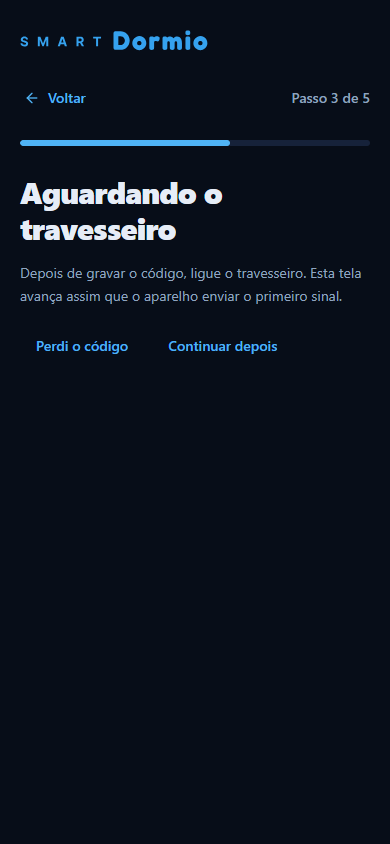
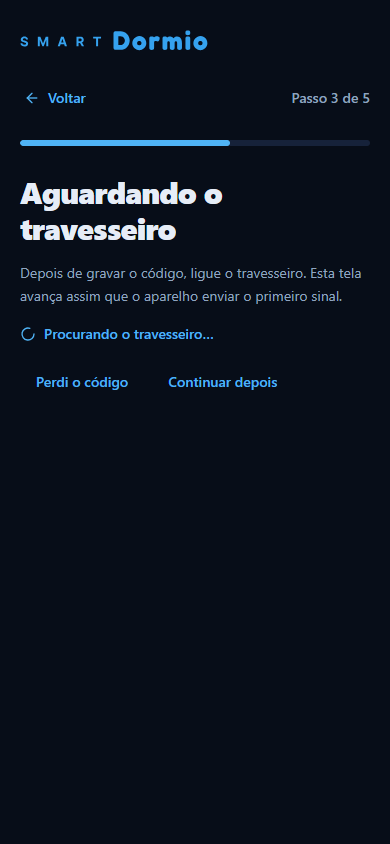
fix: mostrar atividade na espera do travesseiro

Changed region(s): [[0.0923, 0.3697, 0.7077, 0.4621]]

diff --git a/frontend/src/pages/PrimeirosPassos.tsx b/frontend/src/pages/PrimeirosPassos.tsx
@@ -1,4 +1,4 @@
-import { ArrowLeft, BedSingle, ChevronRight, Smartphone, type LucideIcon } from "lucide-react";
+import { ArrowLeft, BedSingle, ChevronRight, Loader2, Smartphone, type LucideIcon } from "lucide-react";
 import { useCallback, useEffect, useRef, useState, type FormEvent, type ReactNode } from "react";
 import { Link, useLocation, useNavigate } from "react-router";
 
@@ -322,15 +322,28 @@ function AguardarTravesseiro({ aparelho, aoReceber, aoReparear, aoAdiar }: {
   aoReparear: () => void;
   aoAdiar: () => void;
 }) {
-  const { resultado, tentarNovamente } = usePrimeiroSinal(aparelho);
+  const { resultado, pausado, tentarNovamente } = usePrimeiroSinal(aparelho);
+  const [estadoMontado, setEstadoMontado] = useState(false);
+  useEffect(() => {
+    // A região de estado precisa existir antes de receber a primeira mensagem.
+    const depoisDaMontagem = window.setTimeout(() => setEstadoMontado(true), 0);
+    return () => window.clearTimeout(depoisDaMontagem);
+  }, []);
+
   useEffect(() => {
     if (resultado === "sinal") aoReceber();
   }, [resultado, aoReceber]);
 
   return <>
     <p>Depois de gravar o código, ligue o travesseiro. Esta tela avança assim que o aparelho enviar o primeiro sinal.</p>
-    {resultado === "erro" && <p className={ERRO} role="status">Não foi possível consultar o travesseiro. Vamos tentar novamente.</p>}
-    {resultado === "ausente" && <p className={ERRO} role="status">Este travesseiro não está mais disponível na conta.</p>}
+    <p role="status" aria-live="polite" className={resultado === "aguardando" ? "flex items-center gap-2 text-sm font-medium text-primary" : ERRO}>
+      {resultado === "aguardando" && estadoMontado && <>
+        <Loader2 size={16} aria-hidden className="shrink-0 motion-safe:animate-spin" style={pausado ? { animationPlayState: "paused" } : undefined} />
+        Procurando o travesseiro…
+      </>}
+      {resultado === "erro" && "Não foi possível consultar o travesseiro. Vamos tentar novamente."}
+      {resultado === "ausente" && "Este travesseiro não está mais disponível na conta."}
+    </p>
     <div className="flex flex-wrap gap-2">
       {resultado === "erro" && <button className={PRINCIPAL} onClick={tentarNovamente}>Tentar novamente</button>}
       {resultado === "ausente" && <button className={PRINCIPAL} onClick={aoReparear}>Parear novamente</button>}

diff --git a/frontend/src/montagem.test.ts b/frontend/src/montagem.test.ts
@@ -1497,6 +1497,9 @@ describe("o painel em camadas (UI-40)", PRAZO, () => {
       expect(localStorage.getItem("dormio-jornada-" + SESSAO.user.id)).not.toContain("codigo-sintetico");
       fireEvent.click(screen.getByRole("button", { name: "Já copiei, aguardar sinal" }));
       await screen.findByRole("heading", { name: "Aguardando o travesseiro" });
+      const buscando = "Procurando o travesseiro…";
+      const estado = (await screen.findByText(buscando)).closest('[role="status"]');
+      expect(estado?.getAttribute("aria-live")).toBe("polite");
       expect(screen.queryByText("Recebemos o primeiro sinal dele")).toBeNull();
       fireEvent.click(screen.getByRole("button", { name: "Continuar depois" }));
       await faixaApareceu();
@@ -1504,10 +1507,12 @@ describe("o painel em camadas (UI-40)", PRAZO, () => {
       indisponivel = true;
       fireEvent.click(faixa().getByRole("link", { name: "Continuar" }));
       const tentar = await screen.findByRole("button", { name: "Tentar novamente" });
+      expect(screen.queryByText(buscando)).toBeNull();
       sinal = true;
       indisponivel = false;
       fireEvent.click(tentar);
       expect(await screen.findByRole("heading", { name: "Recebemos o primeiro sinal dele" })).toBeTruthy();
+      expect(screen.queryByText(buscando)).toBeNull();
     });
 
     it("UI-62: a jornada valida a meta do UI-61 e salva só esse campo", async () => {

diff --git a/frontend/src/hooks/usePrimeiroSinal.test.ts b/frontend/src/hooks/usePrimeiroSinal.test.ts
@@ -39,16 +39,20 @@ describe("espera do primeiro sinal (UI-62)", () => {
     vi.useFakeTimers();
     const oculto = vi.spyOn(document, "hidden", "get").mockReturnValue(false);
     listar.mockResolvedValue([travesseiro]);
-    renderHook(() => usePrimeiroSinal(travesseiro.id));
+    const { result } = renderHook(() => usePrimeiroSinal(travesseiro.id));
     await act(() => vi.advanceTimersByTimeAsync(0));
     expect(listar).toHaveBeenCalledTimes(1);
+    expect(result.current.pausado).toBe(false);
     oculto.mockReturnValue(true);
-    document.dispatchEvent(new Event("visibilitychange"));
+    act(() => { document.dispatchEvent(new Event("visibilitychange")); });
     await act(() => vi.advanceTimersByTimeAsync(20_000));
     expect(listar).toHaveBeenCalledTimes(1);
+    expect(result.current.pausado).toBe(true);
     oculto.mockReturnValue(false);
-    document.dispatchEvent(new Event("visibilitychange"));
+    act(() => { document.dispatchEvent(new Event("visibilitychange")); });
     expect(listar).toHaveBeenCalledTimes(2);
+    await act(() => vi.advanceTimersByTimeAsync(0));
+    expect(result.current.pausado).toBe(false);
   });
 
   it("trata um pedido que fica sem resposta e volta a consultar", async () => {

diff --git a/frontend/src/hooks/usePrimeiroSinal.ts b/frontend/src/hooks/usePrimeiroSinal.ts
@@ -9,6 +9,7 @@ type Resultado = "aguardando" | "sinal" | "erro" | "ausente";
 export function usePrimeiroSinal(aparelho: string) {
   const [consulta, setConsulta] = useState(0);
   const [resultado, setResultado] = useState<Resultado>("aguardando");
+  const [pausado, setPausado] = useState(() => document.hidden);
 
   useEffect(() => {
     let controle: AbortController | undefined;
@@ -55,7 +56,9 @@ export function usePrimeiroSinal(aparelho: string) {
 
     function aoMudarVisibilidade() {
       parar();
-      if (!document.hidden) void consultar();
+      const oculto = document.hidden;
+      setPausado(oculto);
+      if (!oculto) void consultar();
     }
 
     document.addEventListener("visibilitychange", aoMudarVisibilidade);
@@ -68,6 +71,7 @@ export function usePrimeiroSinal(aparelho: string) {
 
   return {
     resultado,
+    pausado,
     tentarNovamente: () => {
       setResultado("aguardando");
       setConsulta((anterior) => anterior + 1);

diff --git a/docs/DIARIO-DE-ENGENHARIA.md b/docs/DIARIO-DE-ENGENHARIA.md
@@ -14442,11 +14442,13 @@ Contra `develop`, falharam 5 testes de tela e vocabulário, 9 do PATCH e 4 de ac
 
 O Edge repetiu os dois caminhos a 390 e 1280 px em claro e escuro. A escolha mostra a marca, duas opções em cartões com ícone e descrição, e barra e texto de progresso. A barra da segunda etapa preenche 40% nos dois temas. A 1280 px, o cartão fica centralizado. O APK revisado também repetiu o percurso até `/noite` no Pixel 6 e renovou as oito capturas.
 
+✏ **Indicador da espera na revisão da PR #336.** “Procurando o travesseiro…” aparece numa região de estado com `aria-live="polite"`. O Edge confirmou rotação normal, ícone parado com movimento reduzido e animação pausada enquanto a consulta está suspensa com a tela oculta. Uma consulta adicional preservou a região e o texto sem mudanças no DOM. Os testes verificaram a presença da mensagem durante a espera, a ausência após erro ou sinal e a pausa ao ocultar. Dois casos falharam na ponta anterior `d5c60b0`. As quatro capturas da espera foram renovadas em 390 e 1280 px, nos dois temas.
+
 **Adaptação.** A entrada tem prazo de 3 s no Android e de 12 s no site antes de seguir para o destino normal. Na espera do travesseiro, a consulta tem prazo de 10 s e é repetida 5 s depois de terminar. Sair do passo ou esconder a tela cancela a consulta e a próxima tentativa. O código fica em memória até a pessoa seguir para a espera. A retomada guarda só o ID do aparelho, o caminho e o passo. No celular, o botão Voltar do Android percorre a jornada e fecha a janela de consentimento quando ela está aberta. No caminho web, a conclusão indica entrar no app com o mesmo e-mail da conta. A política usa 27/11 como data prevista, a confirmar para o release.
 
 **O que deu errado no caminho.** O cache do npm estava incompleto. As dependências foram copiadas de uma worktree com o mesmo lockfile. A primeira cópia usada para o controle de base ficou dentro de `node_modules` e não recebeu a transformação JSX do Vite. O controle foi repetido numa pasta separada com as dependências copiadas. O isolamento de loopback afetou a prova do servidor do Vite e as primeiras capturas. O Edge concluiu os cenários com o pacote servido localmente. O executor de testes do Gradle perdeu a comunicação por loopback. Os 48 testes Java passaram diretamente pelo JUnitCore com as classes compiladas. Na WebView, a primeira interceptação não alcançou as requisições que o Capacitor encaminhava pelo HTTP nativo. Os avisos de travamento do launcher e da interface do sistema receberam a tecla Voltar antes do aplicativo. A WebView permitiu completar e capturar a jornada com o botão Voltar da tela. A PR #335 abriu em paralelo e usou LGPD-17 e a entrada (iii). A jornada ficou com LGPD-18 e a entrada (iv).
 
-Na revisão, o teste da faixa encontrou apenas a navegação do Início ao fim do prazo inicial de 1 s. Com até 5 s para a tela carregar, a rodada focada e a suíte passaram. O APK atualizado ficou atrás de um aviso de travamento do Bem-estar Digital no emulador. A segunda abertura liberou a WebView e o percurso passou.
+Na revisão, o teste da faixa encontrou apenas a navegação do Início ao fim do prazo inicial de 1 s. Com até 5 s para a tela carregar, a rodada focada e a suíte passaram. No ajuste do indicador, duas rodadas em paralelo com build ou lint atingiram o prazo de 1 s em rotas carregadas sob demanda. A montagem foi reexecutada isoladamente. O APK atualizado ficou atrás de um aviso de travamento do Bem-estar Digital no emulador. A segunda abertura liberou a WebView e o percurso passou.
 
 **Risco em aberto.** O aviso da primeira sessão depende do navegador ou app que reconheceu a conta vazia. Se a primeira sessão vier do app e a pessoa abrir o site em outro aparelho, o aviso pode não aparecer ali. A disponibilidade do fluxo no Android depende da distribuição do próximo APK. A data da política deve acompanhar o release e o merge depende de aceite explícito do autor após a revisão do diff.
 
